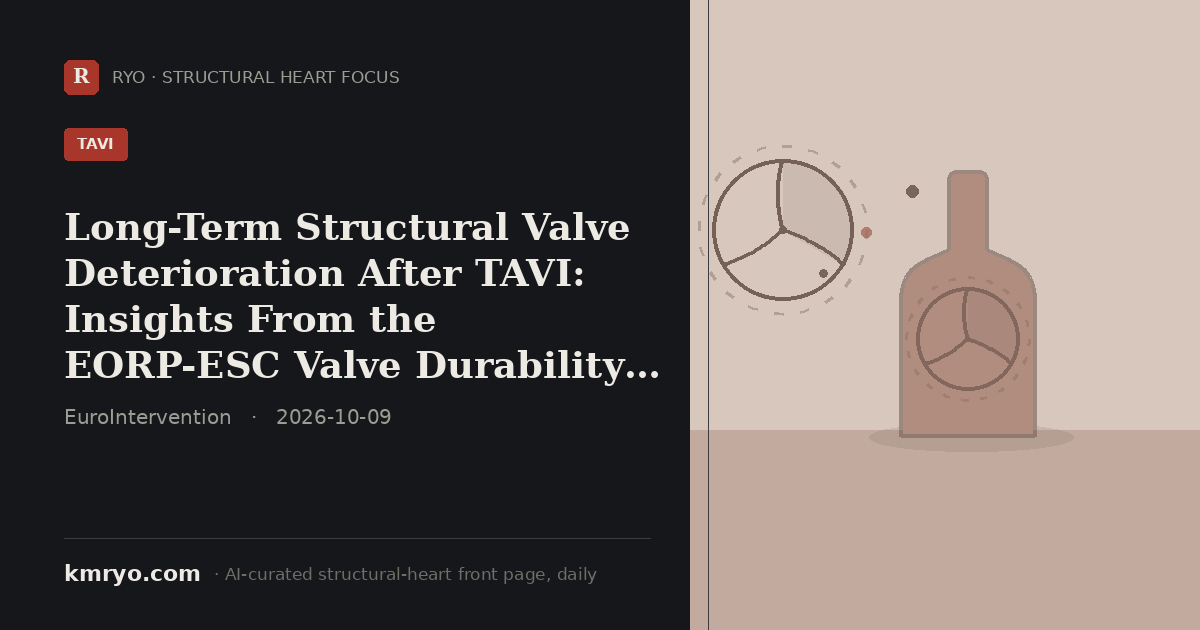
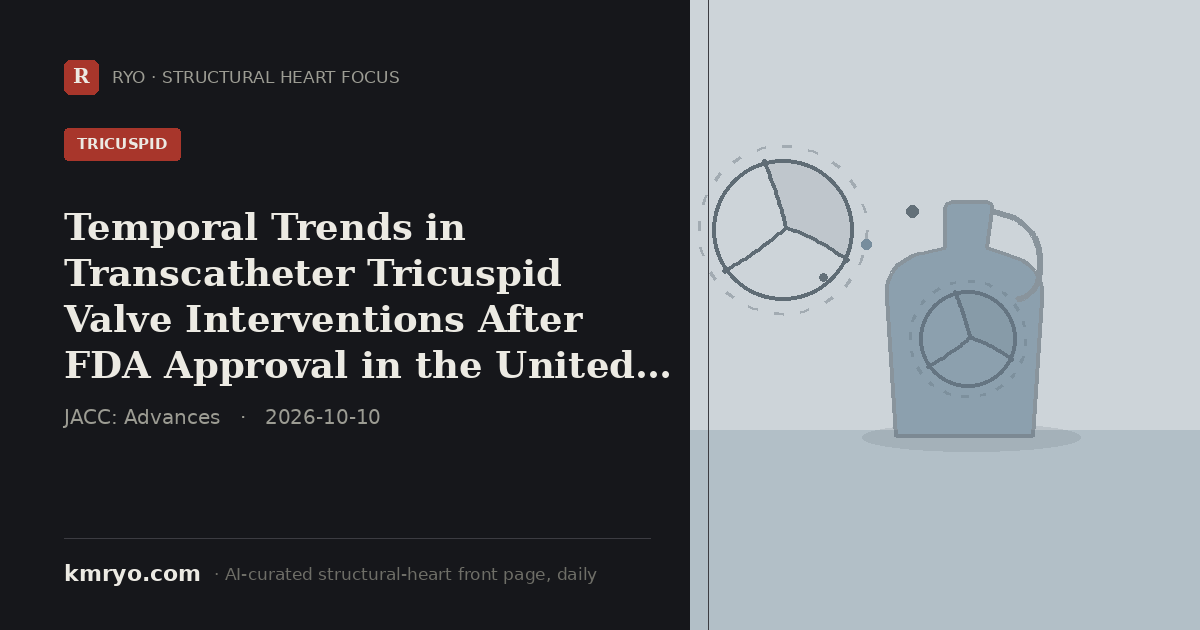
pulse: 2026-10-10 daily update
Claude-Session: https://claude.ai/code/session_01Vn7tDAUSSKX13CBZDb2T67

diff --git a/index.html b/index.html
@@ -6,8 +6,8 @@
 <title>Structural Heart Focus — Daily | Dr. Mi Chen · 千觅量子 RYO</title>
 <meta name="description" content="Structural Heart Focus — the day's most important structural-heart reading (top journals, major meetings and the field's conversation), curated daily by an AI agent from inside the Zurich hybrid room. By Dr. Mi Chen · 千觅量子 RYO.">
 <!-- Social share card. Regenerated daily by the pulse agent (pulse/make_share_card.py); og:title/description updated to the day's top story so LinkedIn/WeChat/X show today's headline, not a static portrait. -->
-<meta property="og:title" content="Long-Term Structural Valve Deterioration After TAVI: Insights From the EORP-ESC Valve Durability TAVI Registry">
-<meta property="og:description" content="The EORP-ESC Valve Durability TAVI Registry followed 597 patients to a median 6.1 years: moderate/severe structural valve deterioration occurred in 9.5%, with intra-annular valve design the strongest predictor (HR 38.44).">
+<meta property="og:title" content="Temporal Trends in Transcatheter Tricuspid Valve Interventions After FDA Approval in the United States">
+<meta property="og:description" content="A JACC: Advances registry study of early US commercial use: 2,143 T-TEER and 1,301 TTVR procedures, with TTVR's share of all tricuspid interventions growing from 32% to 42% and in-hospital mortality of 0.5% and 2.0%, respectively.">
 <meta property="og:image" content="https://www.kmryo.com/pulse/img/share/card.png">
 <meta property="og:image:width" content="1200">
 <meta property="og:image:height" content="630">
@@ -16,8 +16,8 @@
 <meta property="og:type" content="website">
 <meta property="og:site_name" content="kmryo.com · Structural Heart Focus">
 <meta name="twitter:card" content="summary_large_image">
-<meta name="twitter:title" content="Long-Term Structural Valve Deterioration After TAVI: Insights From the EORP-ESC Valve Durability TAVI Registry">
-<meta name="twitter:description" content="The EORP-ESC Valve Durability TAVI Registry followed 597 patients to a median 6.1 years: moderate/severe structural valve deterioration occurred in 9.5%, with intra-annular valve design the strongest predictor (HR 38.44).">
+<meta name="twitter:title" content="Temporal Trends in Transcatheter Tricuspid Valve Interventions After FDA Approval in the United States">
+<meta name="twitter:description" content="A JACC: Advances registry study of early US commercial use: 2,143 T-TEER and 1,301 TTVR procedures, with TTVR's share of all tricuspid interventions growing from 32% to 42% and in-hospital mortality of 0.5% and 2.0%, respectively.">
 <meta name="twitter:image" content="https://www.kmryo.com/pulse/img/share/card.png">
[1 lines of base64/hex data omitted]
 <link rel="preconnect" href="https://fonts.googleapis.com">
